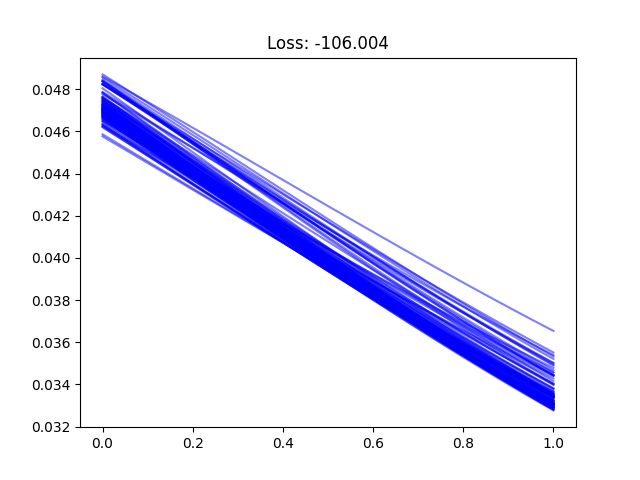
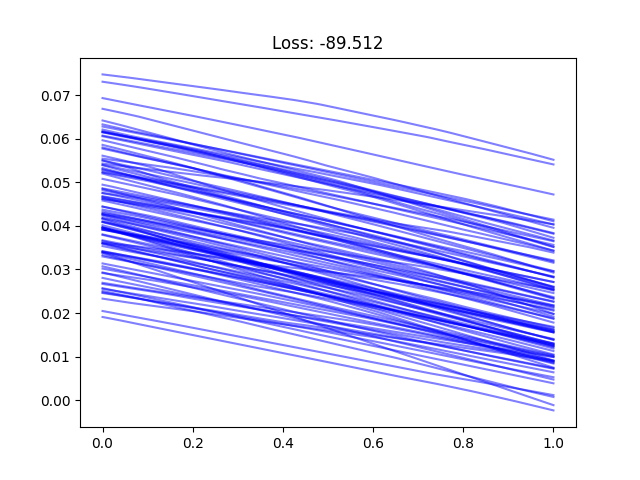
add pretrained code for hyak

diff --git a/pretrained/helpers.py b/pretrained/helpers.py
@@ -1,10 +1,13 @@
 import numpy as np
 import torch
-from torch.utils.data import Dataset, DataLoader
-from torchvision import datasets
+from torch.distributions import Normal
+from torch.utils.data import Dataset
 RNG = np.random.default_rng()
-import pdb
-import glob
+import glob, pdb
+import matplotlib.pyplot as plt
+from activephasemap.np.utils import context_target_split
+from activephasemap.utils.visuals import _inset_spectra, MinMaxScaler, scaled_tickformat
+device = torch.device("cuda" if torch.cuda.is_available() else "cpu")
 
 class UVVisDataset(Dataset):
     def __init__(self, root_dir):
@@ -14,6 +17,7 @@ class UVVisDataset(Dataset):
         """
         self.dir = root_dir
         self.files = glob.glob(self.dir+'/*.npz')
+        self.xrange = [0,1]
 
     def __len__(self):
         return len(self.files)
@@ -30,12 +34,12 @@ class UVVisDataset(Dataset):
 
         return wl_, I_
 
-
 def plot_samples(ax, model, x_target, z_dim, num_samples=100):
     z_sample = torch.randn((num_samples, z_dim))
-    for zi in z_sample:
-        mu, _ = model.xz_to_y(x_target, zi)
-        ax.plot(x_target.numpy()[0], mu.detach().numpy()[0], c='b', alpha=0.5)
+    with torch.no_grad():
+        for zi in z_sample:
+            mu, _ = model.xz_to_y(x_target, zi.to(device))
+            ax.plot(x_target.cpu().numpy()[0], mu.detach().cpu().numpy()[0], c='b', alpha=0.5)
 
     return 
 
@@ -43,38 +47,39 @@ def plot_posterior_samples(x_target, data_loader, model):
     fig, axs = plt.subplots(2,5, figsize=(4*5, 4*2))
     for ax in axs.flatten():
         x, y = next(iter(data_loader))
-        x_context, y_context, _, _ = context_target_split(x[0:1], y[0:1], 
-                                                        num_context, 
-                                                        num_target)
+        x_context, y_context, _, _ = context_target_split(x[0:1], y[0:1], 10, 50)
+        with torch.no_grad():
+            for _ in range(200):
+                # Neural process returns distribution over y_target
+                p_y_pred = model(x_context, y_context, x_target)
+                # Extract mean of distribution
+                mu = p_y_pred.loc.detach()
+                ax.plot(x_target.cpu().numpy()[0], mu.cpu().numpy()[0], alpha=0.05, c='b')
 
-        for i in range(200):
-            # Neural process returns distribution over y_target
-            p_y_pred = model(x_context, y_context, x_target)
-            # Extract mean of distribution
-            mu = p_y_pred.loc.detach()
-            ax.plot(x_target.numpy()[0], mu.numpy()[0], alpha=0.05, c='b')
-
-        ax.scatter(x_context[0].numpy(), y_context[0].numpy(), c='tab:red')
-        ax.plot(x[0:1].squeeze().numpy(), y[0:1].squeeze().numpy(), c='tab:red')
+            ax.scatter(x_context[0].cpu().numpy(), y_context[0].cpu().numpy(), c='tab:red')
+            ax.plot(x[0:1].cpu().squeeze().numpy(), y[0:1].cpu().squeeze().numpy(), c='tab:red')
 
     return fig, axs
 
-def plot_zgrid_curves(z_grid, x_target, model):
-    z1 = torch.linspace(z_grid[0],z_grid[1],10)
-    z2 = torch.linspace(z_grid[0],z_grid[1],10)
-    fig, axs = plt.subplots(10,10, figsize=(2*10, 2*10))
+
+def plot_zgrid_curves(z_range, x_target, model):
+    z = torch.linspace(z_range[0],z_range[1],10)
+    fig, ax = plt.subplots(figsize=(10, 10))
+    scaler = MinMaxScaler(z_range[0],z_range[1])
     for i in range(10):
         for j in range(10):
-            z_sample = torch.zeros((1, 2))
-            z_sample[0,0] = z1[i]
-            z_sample[0,1] = z2[j]
-            mu, sigma = model.xz_to_y(x_target, z_sample)
-            mu_, sigma_ = mu.squeeze().numpy(), sigma.squeeze().numpy()
-            axs[i,j].plot(x_target.squeeze().numpy(), mu_)
-            axs[i,j].fill_between(x_target.squeeze().numpy(), 
-            mu_-sigma_, mu_+sigma_, color='tab:blue', alpha=0.5)
-            # axs[i,j].set_title('(%.2f, %.2f)'%(z1[i], z2[j]))
-    fig.supxlabel('z1')
-    fig.supylabel('z2')
+            zij = torch.Tensor([z[i], z[j]])
+            with torch.no_grad():
+                yi, _ = model.xz_to_y(x_target, zij.to(device))
+            norm_zij = np.array([scaler.transform(z[i].cpu().numpy()), 
+                                scaler.transform(z[j].cpu().numpy())]
+                                )
+            _inset_spectra(norm_zij,x_target.cpu().squeeze().numpy(),
+            yi.cpu().squeeze().numpy(), [], ax, show_sigma=False)
 
-    return fig, axs
+    ax.xaxis.set_major_formatter(lambda x, pos : scaled_tickformat(scaler, x, pos))
+    ax.yaxis.set_major_formatter(lambda y, pos : scaled_tickformat(scaler, y, pos))
+    ax.set_xlabel('Z1', fontsize=20)
+    ax.set_ylabel('Z2', fontsize=20)
+
+    return fig, ax

diff --git a/pretrained/pretrain-sines.py b/pretrained/pretrain-sines.py
@@ -8,12 +8,12 @@ from torch.utils.data.dataloader import default_collate
 from torch.utils.data import DataLoader
 from activephasemap.np.neural_process import NeuralProcess
 from activephasemap.np.training import NeuralProcessTrainer
-from activephasemap.np.utils import context_target_split
+from activephasemap.np.datasets import SineData
 
 sys.path.append('./helpers.py')
 from helpers import *
 
-PLOT_DIR = './UVVis/'
+PLOT_DIR = './SINES/'
 if os.path.exists(PLOT_DIR):
     shutil.rmtree(PLOT_DIR)
 os.makedirs(PLOT_DIR)
@@ -22,15 +22,17 @@ print('Saving the results to %s'%PLOT_DIR)
 
 batch_size = 2
 num_epochs = 10
-r_dim = 128  # Dimension of representation of context points
+r_dim = 50  # Dimension of representation of context points
 z_dim = 2  # Dimension of sampled latent variable
-h_dim = 128  # Dimension of hidden layers in encoder and decoder
+h_dim = 50  # Dimension of hidden layers in encoder and decoder
 learning_rate = 1e-3
-plot_epochs_freq = 4
+plot_epochs_freq = 2
 print_itr_freq = 1000
 
 # Create dataset
-dataset = UVVisDataset(root_dir='./uvvis_data_npy')
+dataset = SineData(amplitude_range=(-1., 1.),
+                   shift_range=(-.5, .5),
+                   num_samples=2000)
 data_loader = DataLoader(dataset, batch_size=batch_size, shuffle=True,
 collate_fn=lambda x: tuple(x_.to(device) for x_ in default_collate(x))
 )
@@ -48,7 +50,11 @@ neuralprocess = NeuralProcess(1, 1, r_dim, z_dim, h_dim).to(device)
 # Create a set of 100 target points, with shape 
 # (batch_size, num_points, x_dim), which in this case is
 # (1, 100, 1)
-x_target = torch.linspace(dataset.xrange[0], dataset.xrange[1], 100).reshape(1,100,1).to(device)
+x_target = torch.linspace(dataset.xrange[0], 
+                          dataset.xrange[1], 100
+                          ).reshape(1,100,1).to(device)
+
+
 with torch.no_grad():
     fig, ax = plt.subplots()
     plot_samples(ax, neuralprocess, x_target, z_dim)
@@ -57,13 +63,19 @@ with torch.no_grad():
 
 optimizer = torch.optim.Adam(neuralprocess.parameters(), lr=learning_rate)
 np_trainer = NeuralProcessTrainer(device, neuralprocess, optimizer,
-                                  num_context_range=(25, 65),
-                                  num_extra_target_range=(10, 35), 
+                                  num_context_range=(3, 50),
+                                  num_extra_target_range=(1, 50), 
                                   print_freq=print_itr_freq)
 
 neuralprocess.training = True
-x_plot = torch.linspace(dataset.xrange[0], dataset.xrange[1], steps = 100).reshape(1,100,1).to(device)
-np_trainer.train(data_loader, num_epochs, x_plot=x_plot, plot_epoch=plot_epochs_freq, savedir=PLOT_DIR+'/itrs/') 
+x_plot = torch.linspace(dataset.xrange[0], 
+                        dataset.xrange[1], steps = 100
+                        ).reshape(1,100,1).to(device)
+
+np_trainer.train(data_loader, num_epochs, x_plot=x_plot, 
+                 plot_epoch=plot_epochs_freq, 
+                 savedir=PLOT_DIR+'/itrs/'
+                 ) 
 
 neuralprocess.training = False
 
@@ -89,5 +101,3 @@ with torch.no_grad():
         plot_zgrid_curves([-5,5], x_target, neuralprocess)
         plt.savefig(PLOT_DIR+'samples_in_grid.png')
         plt.close()
-
-# torch.save(neuralprocess.state_dict(), 'uvvis.pt')
